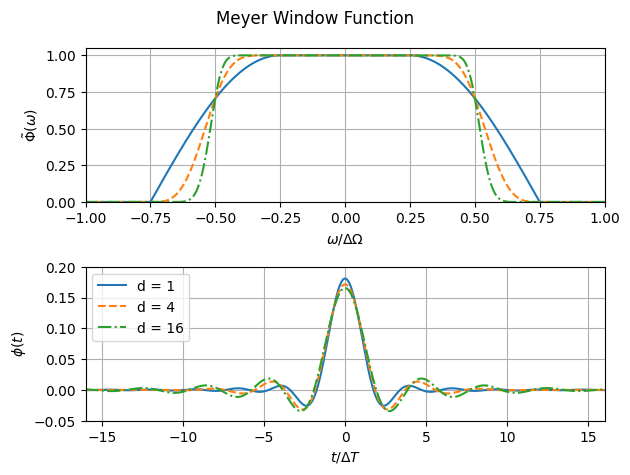
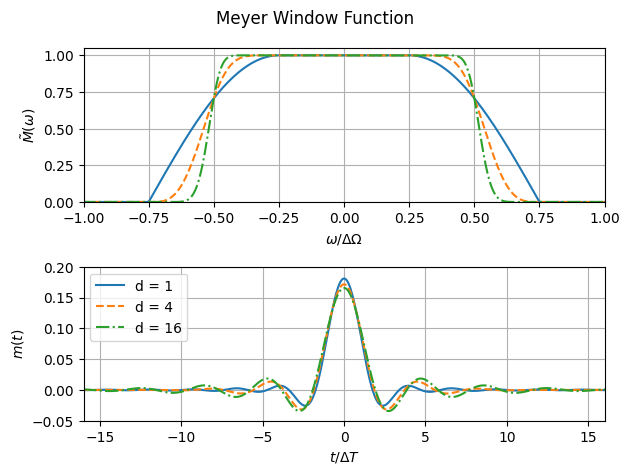
dev

diff --git a/WDM/code/discrete_wavelet_transform/WDM.py b/WDM/code/discrete_wavelet_transform/WDM.py
@@ -277,7 +277,7 @@ class WDM_transform:
 
         .. math::
 
-            t_{n0} = (2n\,\mathrm{mod}\,N_t) \Delta t , 
+            t_{n0} = 2n \Delta t , 
 
         .. math::
 
@@ -399,24 +399,25 @@ class WDM_transform:
         else:
             freq = jnp.asarray(freq, dtype=self.jax_dtype)
 
+        k_vals = jnp.arange(self.N)
+
         if m > 0:
-            Gnm = jnp.sqrt(jnp.pi) * jnp.exp(-1j*n*2.*jnp.pi*freq*self.dT) * ( 
-                    C_nm(n, m) * 
-                    Meyer(2.*jnp.pi*(freq-m*self.dF), self.d, self.A, self.B) +
-                    jnp.conj(C_nm(n, m)) * 
-                    Meyer(2.*jnp.pi*(freq+m*self.dF), self.d, self.A, self.B) )
+            Gnm = (1./jnp.sqrt(2.)) * jnp.exp(-1j*n*2.*jnp.pi*freq*self.dT) * (
+                            C_nm(n, m) *  
+                                self.window_FD[(k_vals+m*self.Nt//2)%self.N] + 
+                            jnp.conj(C_nm(n, m)) * 
+                                self.window_FD[(k_vals-m*self.Nt//2)%self.N]
+                            )
 
         else:
             if n < self.Nt // 2:
-                Gnm = jnp.sqrt(2.*jnp.pi) * \
-                        jnp.exp(-1j*n*4.*jnp.pi*freq*self.dT) * \
-                            Meyer(2.*jnp.pi*freq, self.d, self.A, self.B)
+                Gnm = jnp.exp(-1j*n*4.*jnp.pi*freq*self.dT) * \
+                            self.window_FD
 
             else:
-                Gnm = jnp.sqrt(2.*jnp.pi) * \
-                        jnp.exp(-1j*n*4.*jnp.pi*freq*self.dT) * \
-                    (Meyer(2.*jnp.pi*(freq+self.f_Ny), self.d, self.A, self.B) + 
-                     Meyer(2.*jnp.pi*(freq-self.f_Ny), self.d, self.A, self.B) )
+                Gnm = jnp.exp(-1j*n*4.*jnp.pi*freq*self.dT) * \
+                        (self.window_FD[k_vals-self.N//2] + \
+                         self.window_FD[k_vals+self.N//2])
 
         return Gnm
     
@@ -583,7 +584,7 @@ class WDM_transform:
                 n_vals = jnp.arange(self.Nt//2, self.Nt)
 
                 def temp_func(n):
-                    return (-1)**(k_vals) * \
+                    return 2*(-1)**(k_vals) * \
                             self.window_TD[(k_vals-2*n*self.Nf)%self.N]
 
                 f_vmapped = jax.vmap(temp_func)

diff --git a/tests/test_WDM.py b/tests/test_WDM.py
@@ -80,16 +80,21 @@ def test_gnm_thisone():
                                   for n in range(wdm.Nt)]), 
                         (2, 0, 1))
     
+    for n in range(wdm.Nt):
+        for m in range(wdm.Nf):
+            assert jnp.allclose(gnm_basis[:,n,m], gnm_basis_slow[:,n,m], rtol=1.0e-3, atol=1.0e-3), \
+                f"gnm_basis at n={n}, m={m} does not match the slow method."
+    
     #assert jnp.allclose(gnm_basis[:,1:], gnm_basis_slow[:,1:], rtol=1.0e-3, atol=1.0e-3), \
     #    "The two methods for computing gnm_basis should match."
     
     # reshape to (N, Nt*Nf) for orthonormality check
-    gnm_basis = gnm_basis.reshape(gnm_basis.shape[0], -1) 
+    #gnm_basis = gnm_basis.reshape(gnm_basis.shape[0], -1) 
 
-    I = gnm_basis @ gnm_basis.T * wdm.dt
+    #I = gnm_basis @ gnm_basis.T * wdm.dt
 
-    assert jnp.allclose(I, jnp.eye(wdm.N), atol=1e-3, rtol=1e-3), \
-        "The gnm_basis should be orthonormal."
+    #assert jnp.allclose(I, jnp.eye(wdm.N), atol=1e-3, rtol=1e-3), \
+    #    "The gnm_basis should be orthonormal."
     
 
 def test_exact_transform():

diff --git a/docs/source/theory.rst b/docs/source/theory.rst
@@ -41,6 +41,8 @@ Here the following Fourier transform conventions are used:
 
    x(t) = \int_{-\infty}^{\infty} \mathrm{d}f\; \exp(2\pi ift) \tilde{X}(f) .
 
+For discretely sampled time series 
+
 
 
 Meyer Window
@@ -51,20 +53,18 @@ defined in the frequency domain by
 
 .. math::
 
-    \tilde{\Phi}(\omega) = \begin{cases}
-        \frac{1}{\sqrt{\Delta\Omega}} & \text{if } |\omega| < A, \\
-        \frac{1}{\sqrt{\Delta\Omega}} \cos\left(\frac{\pi}{2}\nu_d\left(\frac{|\omega| -
+    \tilde{M}(\omega) = \begin{cases}
+        \sqrt{\frac{1}{\Delta\Omega}} & \text{if } |\omega| < A, \\
+        \sqrt{\frac{1}{\Delta\Omega}}  \cos\left(\frac{\pi}{2}\nu_d\left(\frac{|\omega| -
          A}{B}\right)\right) & \text{if } A \leq |\omega| \leq A + B \\
         0 & \text{if } |\omega| > A + B
     \end{cases} ,
 
-where :math:`\omega=2\pi f`, and where :math:`A` and :math:`B` are two positive angular frequency 
-parameters that control the shape of the window.
-They satisfy :math:`2A + B = \Delta\Omega`, where :math:`\Delta\Omega` is the total wavelet bandwidth.
-The parameter :math:`A` is the half-width of the flat-top response region while 
-:math:`B` is the width of the transition region;
-see :numref:`fig-Meyer_window`.
-Note how this wavelet is very well localised in frequency (with compact support) but much less so in time.
+where :math:`A>0` and :math:`B>0` control the shape of the window.
+The parameter :math:`A` is the half-width of the flat-top response region and :math:`B` is the width of the transition region;
+they satisfy :math:`2A + B = \Delta\Omega`, where :math:`\Delta\Omega` is the total wavelet bandwidth.
+See :numref:`fig-Meyer_window`.
+
 
 .. _fig-Meyer_window:
 
@@ -73,12 +73,13 @@ Note how this wavelet is very well localised in frequency (with compact support)
    :align: center
    :width: 90%
 
-   The Meyer window function :math:`\tilde{\Phi}(\omega)` for different values of :math:`d`.
-   The bottom panel shows the window in the time-domain, :math:`\phi(t)`, 
-   where :math:`\Delta T = \pi/\Delta \Omega`. The case :math:`d=4` matches Fig.1 of Ref. [2]_.
+   *Top*: The Meyer window function :math:`\tilde{M}(\omega)` for different values of :math:`d`.
+   *Bottom* the time-domain window :math:`m(t)`, where :math:`\Delta T = \pi/\Delta \Omega`. 
+   The case :math:`d=4` matches Fig.1 of Ref. [2]_.
+   Note how the wavelet is well localised in frequency (with compact support) but much less so in time.
 
-The Meyer window function has the property that is squared norm integrates to 1.
-To show this, first perform the trivial integral over the flat-top part of the window (line 1), 
+The Meyer window function has the property that its square integrates to 1.
+To show this, first integrate over the flat-top part of the window (line 1), 
 then let :math:`x=(\omega-A)/B` (line 2), then use :math:`\cos^2 \theta = \frac{1+\cos(2\theta)}{2}` (line 3),
 and finally use the symmetry :math:`\cos(\pi \nu_d(1-x))=\cos(\pi (1-\nu_d(x))) = \cos(\pi-\pi\nu_d(x)))= -\cos(\pi \nu_d(x))`
 to set the remaining piece of the integral to zero (line 4):
@@ -86,14 +87,33 @@ to set the remaining piece of the integral to zero (line 4):
 .. math::
 
    \begin{align}
-   \int_{-\infty}^{\infty} \mathrm{d}\omega\; |\tilde{\Phi}(\omega)|^2 &= 
+   \int_{-\infty}^{\infty} \mathrm{d}\omega\; |\tilde{M}(\omega)|^2 &= 
       \frac{2A+2\int_{A}^{A+B} \mathrm{d}\omega\; \cos^2\left(\frac{\pi}{2}\nu_d(\frac{\omega-A}{B})\right)}{2A+B}  , \\
       &= \frac{2A+2B \int_0^1 \mathrm{d}x\; \cos^2\left(\frac{\pi}{2}\nu_d(x)\right)}{2A+B} , \\
       &= \frac{2A+2B \left(\frac{B}{2}+\frac{B}{2}\int_0^1\mathrm{d}x\; \cos\left(\pi\nu_d(x)\right)\right)}{2A+B} , \\
       &= 1.
    \end{align}
 
-The function :math:`\tilde{\Phi}(\omega)` is implemented in :func:`WDM.code.utils.Meyer.Meyer`.
+The function :math:`M(\omega)` is implemented in :func:`WDM.code.utils.Meyer.Meyer`.
+
+Henceforth, we will work with frequency :math:`f` instead of angular frequency :math:`\omega=2\pi f`. 
+This fits with the rest of the GW data analysis community which generally uses :math:`f`.
+
+For the wavelet transform, the frequency-domain window function is defined to be 
+
+.. math::
+   
+   \tilde{\Phi}(f) = \sqrt{2\pi} M(2\pi f) ,
+
+and the corresponding time-domain window is 
+
+.. math:: 
+   
+   \phi(t) = \int \mathrm{d}f \; \exp(2\pi i ft) \tilde{\Phi}(f)
+
+These are implemented in 
+:func:`WDM.code.discrete_wavelet_transform.WDM.WDM_transform.build_frequency_domain_window` and
+:func:`WDM.code.discrete_wavelet_transform.WDM.WDM_transform.build_time_domain_window`.
 
 Unless otherwise stated, the default values :math:`A=\Delta \Omega/4`, :math:`B=\Delta \Omega/2`, and 
 :math:`d=4` will be used throughout the rest of this document.
@@ -103,15 +123,13 @@ Unless otherwise stated, the default values :math:`A=\Delta \Omega/4`, :math:`B=
 WDM Wavelets
 ------------
 
-Henceforth, we will work with frequency :math:`f` instead of angular frequency :math:`\omega=2\pi f`. 
-This fits with the rest of the GW data analysis community which generally uses :math:`f`.
-
 Consider a function of time :math:`x(t)`. 
 The discretely sampled time series :math:`x[k]=x(t_k)` is indexed by :math:`k\in\{0, 1, \ldots, N-1\}` 
 and evaluated at the sample times :math:`t_k=k\delta t`, where :math:`\delta t` is the cadence and 
 :math:`f_s = \frac{1}{\delta t}` is the sampling frequency.
 The total duration of the time series is :math:`T=N\delta t`, 
 and the maximum Nyquist frequency is :math:`f_{\rm Ny}=\frac{1}{2\delta t}`.
+The frequency resolution is :math:`\delta f = \frac{1}{T}`.
 
 The WDM wavelet transformation represents the time series using :math:`N_f` frequency slices of with :math:`\Delta F`
 and :math:`N_t` time slices of width :math:`\Delta T`; 
@@ -136,31 +154,45 @@ In the time-domain an orthonormal Wilson wavelet basis (Refs. [5]_ and [6]_) can
 .. math::
 
    g_{nm}(t) = \begin{cases}
-        \phi(t-2n\Delta t) & m=0 \\
+        \phi(t-2n\Delta T) & \mathrm{if}\;m=0 \\
         \begin{cases}
-            \sqrt{2} (-1)^{mn} \cos(\pi mk/N_f) \phi(t-n\Delta t) & \mathrm{if}\;n+m\;\mathrm{even}\\
-            \sqrt{2} \sin(\pi mk/N_f) \phi(t-n\Delta t) & \mathrm{if}\;n+m\;\mathrm{odd}
-        \end{cases} & 0<m<N_f \\
-        \sqrt{2} (-1)^{k} \phi(t-2n\Delta t)& m=N_f \\
+            \sqrt{2} (-1)^{mn} \cos\left(\frac{\pi m t}{\Delta T}\right) \phi(t-n\Delta T) & \mathrm{if}\;n+m\;\mathrm{even}\\
+            \sqrt{2} \sin\left(\frac{\pi m t}{\Delta T}\right) \phi(t-n\Delta T) & \mathrm{if}\;n+m\;\mathrm{odd}
+        \end{cases} & \mathrm{if}\;m>0 
         \end{cases} .
 
-In the frequency-domain the basis wavelets are defined as
-
-.. math::
-
-    \tilde{G}_{nm}(f) = \int\mathrm{d}t\; \exp(-2\pi i f t) g_{nm}(t) 
+Taking the Fourier transform, it is straightforward to show that the frequency-domain basis wavelets are given by
 
 .. math::
 
     \tilde{G}_{nm}(f) = \begin{cases}
-        \sqrt{2\pi} \exp(-4\pi i n f \Delta T) \tilde{\Phi}(2\pi f) & m=0 \\
-        \sqrt{2\pi} \exp(-2\pi i n f \Delta T) \left( C_{nm}\tilde{\Phi}(2\pi [f-m\Delta F])
-        +C^*_{nm}\tilde{\Phi}(2\pi [f+m\Delta F]) \right) & 0<m<N_f \\
-        \sqrt{2\pi} \exp(-4\pi i n f \Delta T) \left( \tilde{\Phi}(2\pi [f+N_f\Delta F]) + 
-        \tilde{\Phi}(2\pi [f-N_f\Delta F]) \right) & m=N_f \\
+        \exp(-4\pi i n f \Delta T) \tilde{\Phi}(f) & \mathrm{if}\;m=0 \\
+        \frac{\exp(-2\pi i n f \Delta T)}{\sqrt{2}} \left( C_{nm}\tilde{\Phi}(f+m\Delta F)
+        +C^*_{nm}\tilde{\Phi}(f-m\Delta F) \right) & \mathrm{if}\;m>0 
     \end{cases} ,
 
-where the coefficients :math:`C_{nm}` are defined to be 1 if :math:`n+m` is even, and :math:`i` if :math:`n+m` is odd.
+where 
+
+.. math::
+
+   C_{nm} = \begin{cases} 1 & \mathrm{if}\;n+m\;\mathrm{even} \\ 
+                          i & \mathrm{if}\;n+m\;\mathrm{odd} \end{cases} .
+
+The time index :math:`n\in\{0,1,\ldots,N_t-1\}` covers the whole range of time.
+However, the frequency index in the range :math:`m\in\{0,1,\ldots, N_f\}` (including :math:`N_f`) 
+gives wavelets that remain below the Nyquist frequency (see :numref:`fig-WDM_wavelets_FD`). 
+The case :math:`m=N_f` is handled as a special case using the following formulae;
+
+.. math::
+
+   g_{nN_f}(t) = 2\cos(2\pi f_{\rm Ny}[t-2n\Delta T]) \phi(t-2n\Delta T),
+
+.. math::
+
+   \tilde{G}_{nN_f}(f) = \exp(-4\pi i n f \Delta T) \left( \tilde{\Phi}(f-f_{\rm Ny}) + \tilde{\Phi}(f+f_{\rm Ny}) \right) .
+
+Notice that for most of the wavelets the index :math:`n` shifts the wavelets by integer multiples of :math:`\Delta T` in time.
+However, for :math:`m=0` and :math:`m=N_f` it shifts them by integer multiples of :math:`2\Delta T`.
 
 The WDM wavelets are plotted in the frequency domain in :numref:`fig-WDM_wavelets_FD`.
 
@@ -193,6 +225,9 @@ The central time and frequency of the wavelet :math:`g_{nm}(t)` are given by
    f_{nm} = \begin{cases} \begin{cases}0&\mathrm{if}\;n<N_t/2\\
                            f_{\rm Ny}&\mathrm{if}\,n\geq N_t/2\end{cases} & \mathrm{if}\;m=0 \\
                      m \Delta F & \mathrm{if}\;m>0 \end{cases} \,.
+
+These expressions are implemented in 
+:func:`WDM.code.discrete_wavelet_transform.WDM.WDM_transform.wavelet_central_time_frequency`. 
 
 Examples of the WDM wavelets with :math:`N=512`, :math:`N_f=16`, and :math:`\delta t=1`
 are shown in :numref:`fig-WDM_wavelets_TD`, :numref:`fig-WDM_wavelets_TF`, and :numref:`fig-WDM_wavelets_animate`.
@@ -227,11 +262,15 @@ Notice that the WDM wavelets are well localised in frequency but much less so in
    Animated version of :numref:`fig-WDM_wavelets_TF` looping through all the wavelets. 
    Notice in particular the behaviour of the wavelets for :math:`m=0`.
 
-The WDM wavelets have the following orthonomality property,
+The discretely sampled WDM wavelets have the following orthonomality properties:
 
 .. math::
 
    \delta t \sum_{k=0}^{N-1} g_{nm}[k] g_{n'm'}[k] = \delta_{nn'} \delta_{mm'} .
+
+.. math::
+
+   \delta f \sum_{k=-N/2}^{N/2-1} \tilde{G}_{nm}[k] \tilde{G}^*_{n'm'}[k] = \delta_{nn'} \delta_{mm'} .
 
 The frequency-domain WDM wavelets :math:`\tilde{G}_{nm}(f)` are implemented in 
 :func:`WDM.code.discrete_wavelet_transform.WDM.WDM_transform.Gnm` or 
@@ -243,8 +282,8 @@ The time-domain WDM wavelets :math:`g_{nm}(t)` are implemented in
 
 
 
-The Discrete WDM Wavelet Transform
-----------------------------------
+The Discrete Wavelet Transform
+------------------------------
 
 This section defines the discrete WDM wavelet transform, present its exact formulation, and describe a 
 computationally efficient implementation suitable for practical use.
@@ -372,6 +411,17 @@ This windowed FFT form of the truncated wavelet transform is much more efficient
 However, a small further improvement is possible by using the fact that the WDM wavelets 
 are more compact in the frequency domain than in the time domain.
 It is slightly faster to compute the transform using the FFT of the full original time series. 
+
+
+
+Units 
+-----
+
+The time-domain wavelets have dimension :math:`\big[g_{nm}\big]=\sqrt{1/\mathrm{time}}` and 
+the frequency-domain wavelets have dimension :math:`\big[\tilde{G}_{nm}\big]=\sqrt{\mathrm{time}}`.
+
+If the time series :math:`x(t_k)=x[k]` has dimension :math:`\big[x\big]=\alpha` 
+then the wavelet coefficients have dimension :math:`\big[w_{nm}\big]=\alpha\sqrt{\mathrm{time}}`.
 
 
  
